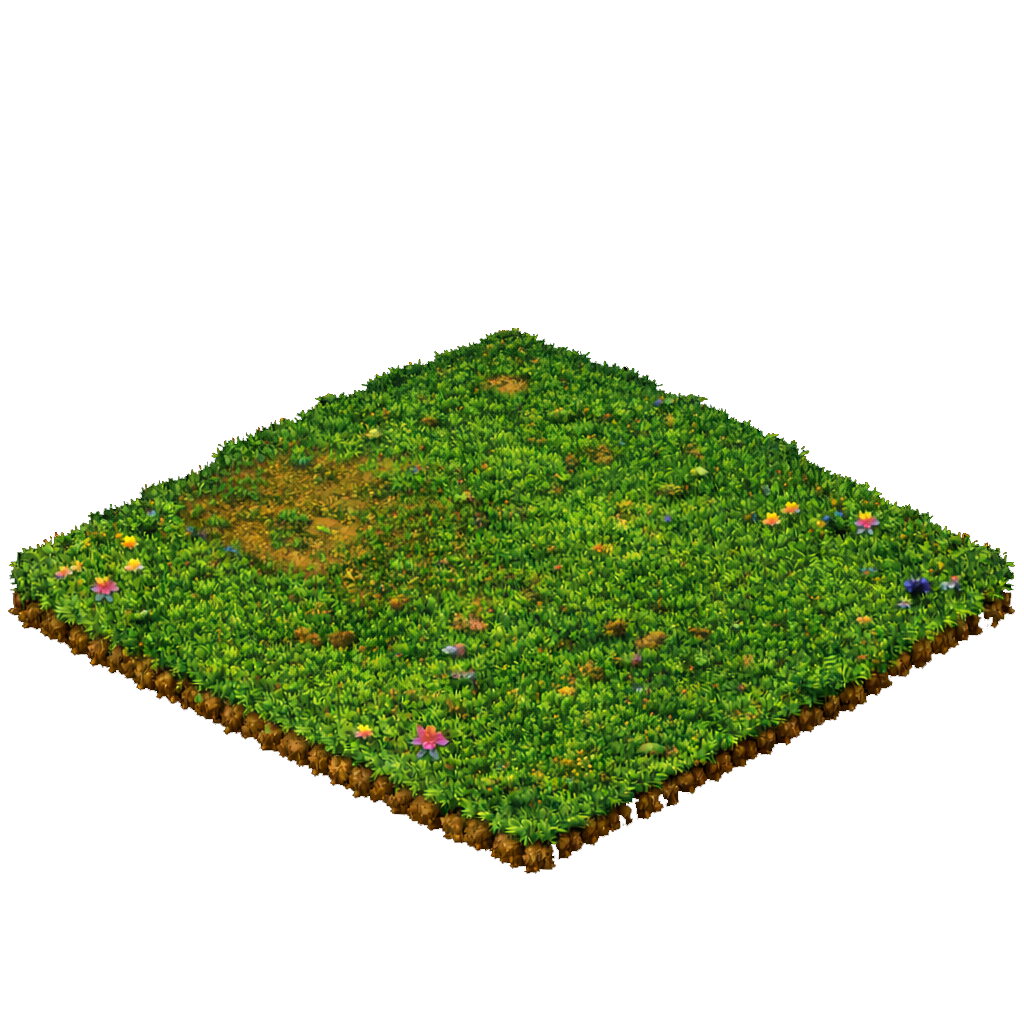
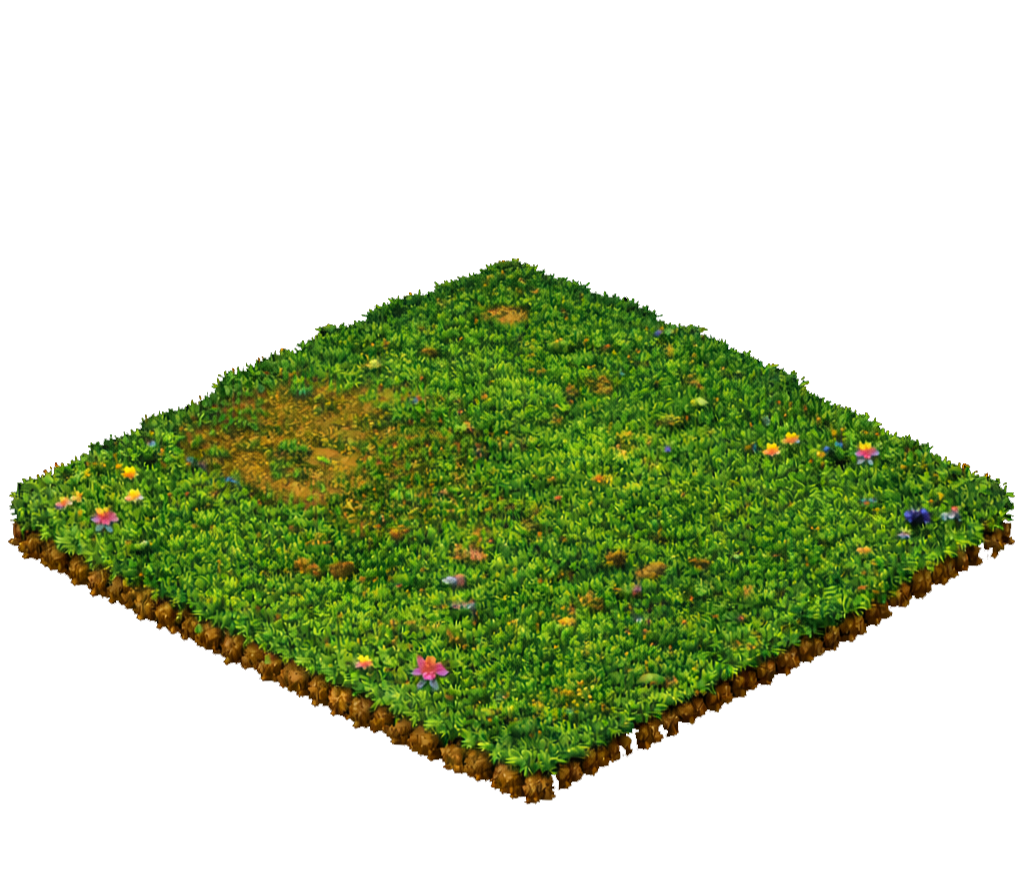
Ajusta mapa isométrico y recorta png

Changed region(s): [[0.0, 0.2746, 1.0, 0.9153]]

diff --git a/README.md b/README.md
@@ -2,7 +2,7 @@
 
 Simple Node + browser project for a web-based game prototype with:
 
-- Procedural tile map rendered with PNG sprites
+- Procedural isometric tile map rendered with overlapping PNG sprites
 - Camera following a player
 - Minimap with viewport rectangle
 
